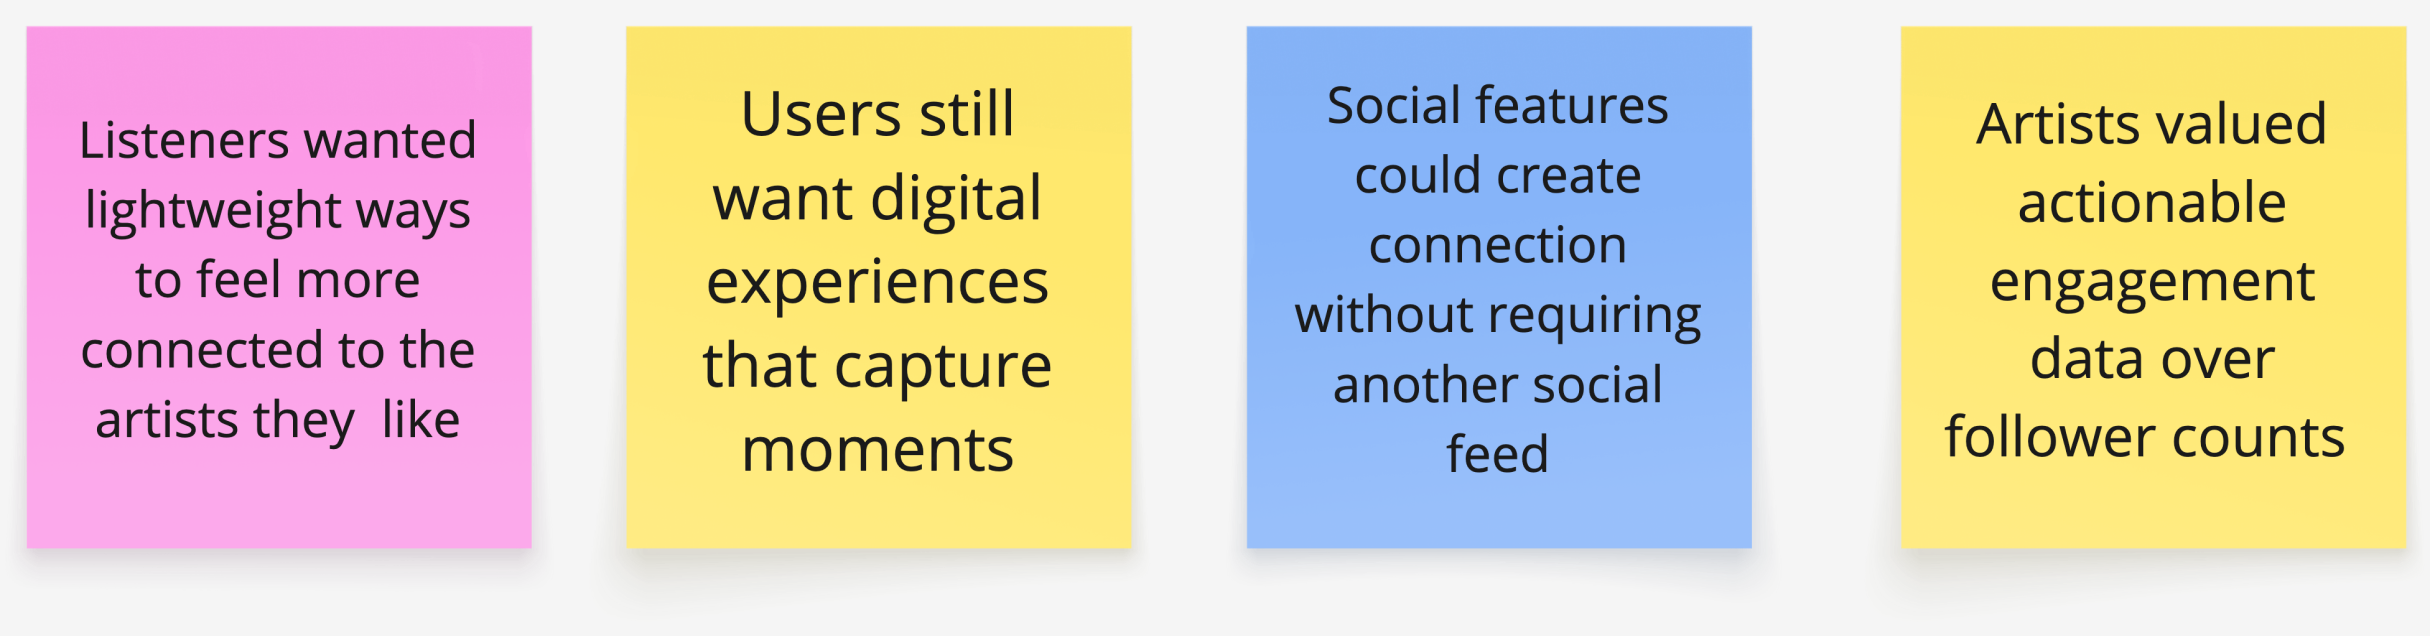
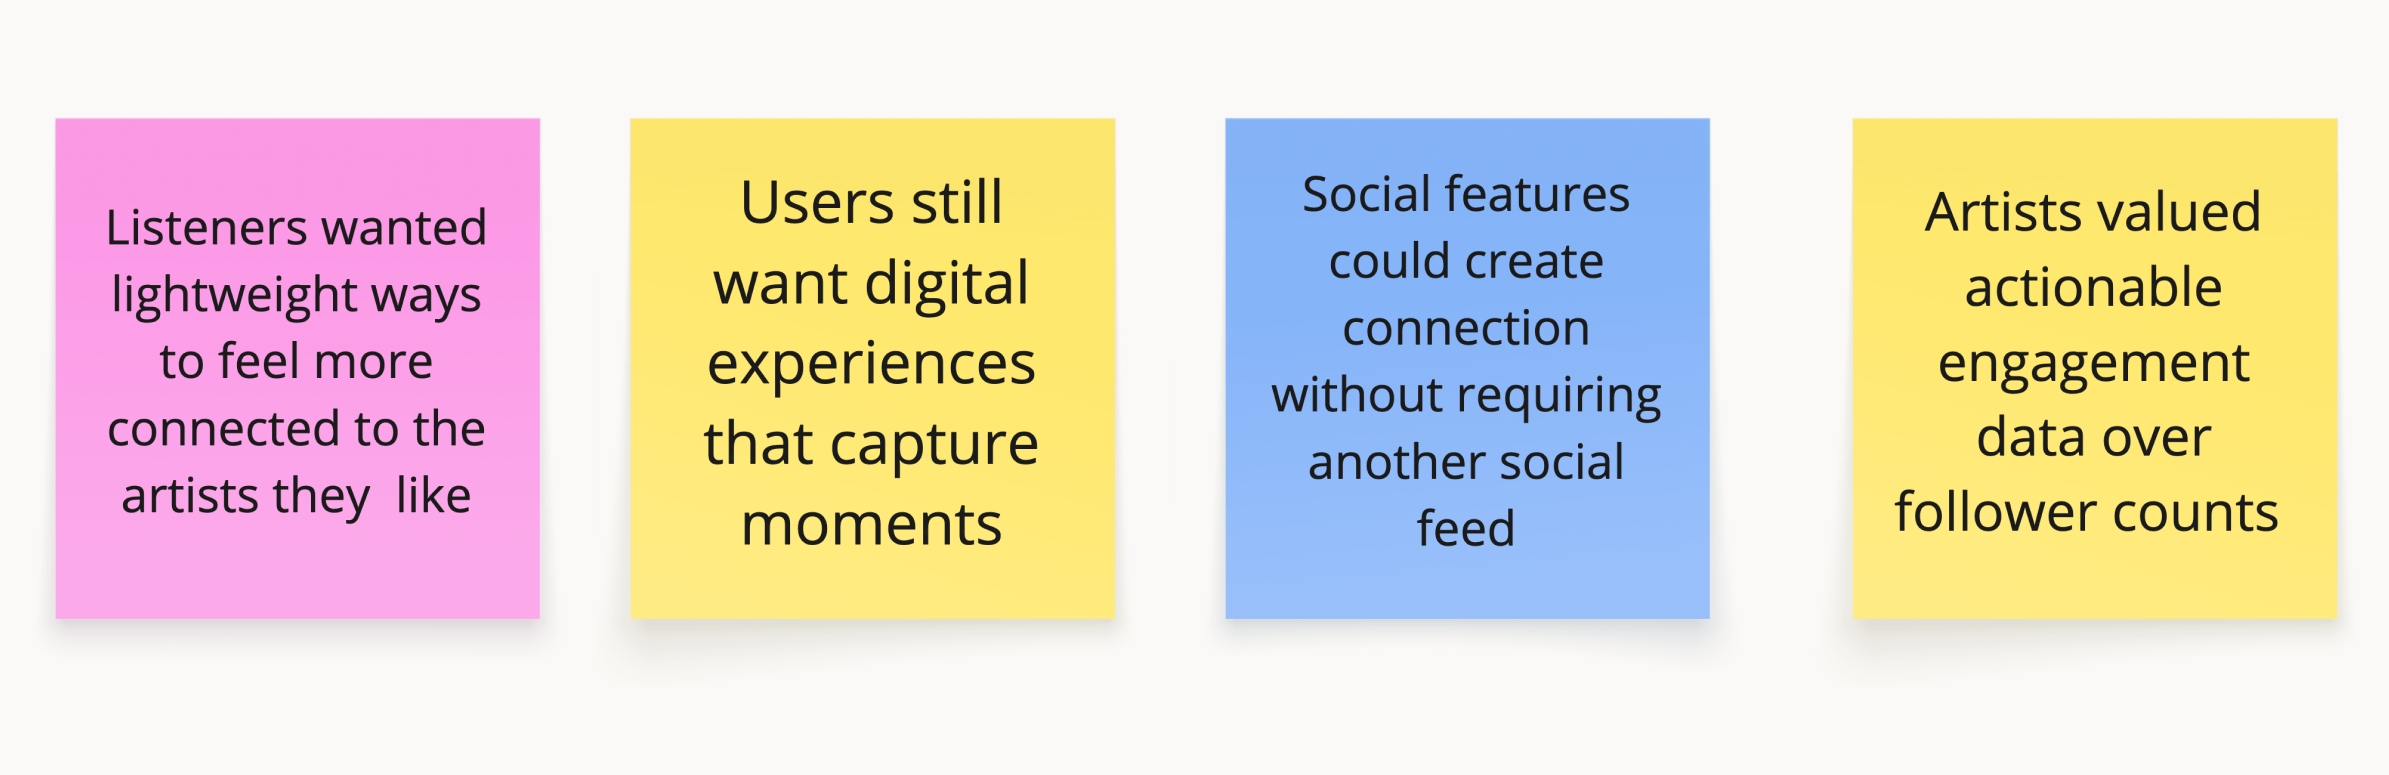
amazon music: re-export the themes stickies, widen to 84%

diff --git a/amazon-music.html b/amazon-music.html
@@ -1010,7 +1010,7 @@
   
     /* ── MOBILE ──────────────────────────────────────────────
        Scoped entirely to narrow viewports; desktop is untouched. */
-    .themes-figure { max-width: 68%; }
+    .themes-figure { max-width: 84%; }
     @media (max-width: 820px) {
       nav { padding: 0 18px; }
       .nav-links { gap: 18px; }
